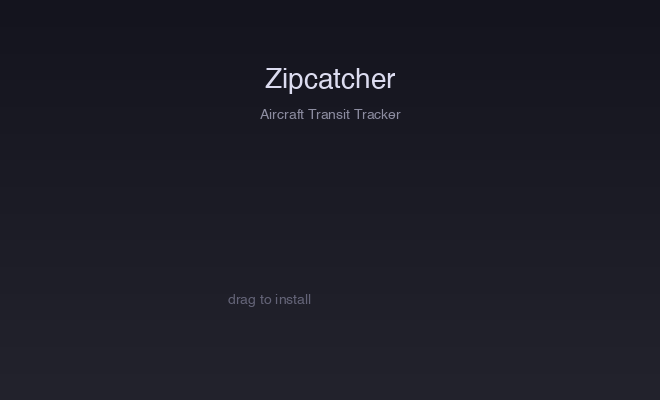
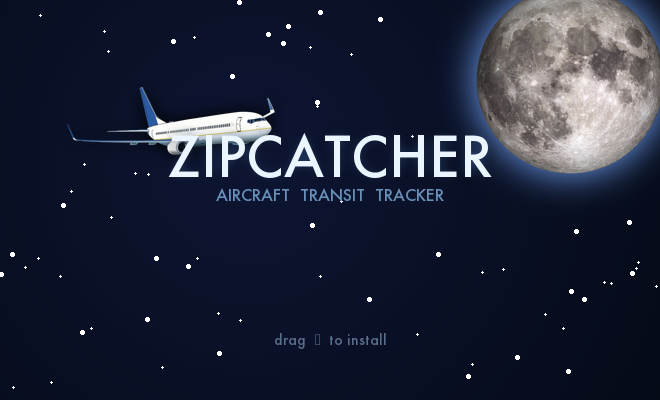
Raise 737 on splash and rebrand DMG installer background
Move the 737 up 50px on the splash so it clears the top edge cleanly,
and regenerate electron/assets/dmg-background.png as a Zipcatcher-
branded scene (deep space, photo moon top-right, 737 upper-left,
wordmark + tagline) so the .dmg the user opens to install matches
the splash screen. The generator script is kept alongside the image
so the background can be rebuilt if the assets change.

diff --git a/electron/splash.html b/electron/splash.html
@@ -58,7 +58,7 @@
   }
   #aircraft {
     position: absolute;
-    top: 40px;
+    top: -10px;
     left: 60px;
     width: 260px;
     height: auto;

diff --git a/electron/assets/build_dmg_background.py b/electron/assets/build_dmg_background.py
@@ -1,0 +1,143 @@
+#!/usr/bin/env python3
+"""Generate electron/assets/dmg-background.png from the splash assets.
+
+Run with the project venv:  .venv/bin/python electron/assets/build_dmg_background.py
+
+The DMG layout places the app icon at (130, 220) and the /Applications
+alias at (410, 220), so the lower-center strip of this background must
+stay visually clear.
+"""
+from __future__ import annotations
+
+from pathlib import Path
+
+from PIL import Image, ImageDraw, ImageFilter, ImageFont
+
+W, H = 660, 400
+HERE = Path(__file__).resolve().parent
+OUT = HERE / "dmg-background.png"
+MOON_SRC = HERE / "moon.png"
+AIRCRAFT_SRC = HERE / "aircraft-737.png"
+
+
+def deep_space_background(w: int, h: int) -> Image.Image:
+    # Vertical radial-ish gradient from deep navy at top-left to near-black.
+    base = Image.new("RGB", (w, h), (3, 8, 16))
+    top = Image.new("RGB", (w, h), (13, 21, 51))
+    mask = Image.new("L", (w, h), 0)
+    md = ImageDraw.Draw(mask)
+    cx, cy = int(w * 0.38), int(h * 0.40)
+    max_r = int((w ** 2 + h ** 2) ** 0.5)
+    for r in range(max_r, 0, -8):
+        alpha = max(0, 255 - int(255 * r / max_r * 1.3))
+        md.ellipse((cx - r, cy - r, cx + r, cy + r), fill=alpha)
+    return Image.composite(top, base, mask)
+
+
+def add_stars(img: Image.Image, count: int = 180) -> None:
+    import random
+    rng = random.Random(1337)
+    draw = ImageDraw.Draw(img, "RGBA")
+    for _ in range(count):
+        x = rng.randint(0, W - 1)
+        y = rng.randint(0, H - 1)
+        # Avoid the moon area and the drop zone strip.
+        if x > 430 and y < 220:
+            continue
+        if 80 <= y <= 330 and 90 <= x <= 560:
+            if rng.random() < 0.5:
+                continue
+        r = rng.choice([0, 0, 0, 1, 1, 2])
+        a = rng.randint(90, 220)
+        draw.ellipse((x - r, y - r, x + r, y + r), fill=(255, 255, 255, a))
+
+
+def paste_with_glow(canvas: Image.Image, src: Image.Image, box, glow_color, glow_radius: int) -> None:
+    x, y, w, h = box
+    src = src.resize((w, h), Image.LANCZOS).convert("RGBA")
+    # Build a glow layer from the alpha channel.
+    alpha = src.split()[-1]
+    glow = Image.new("RGBA", (w + glow_radius * 4, h + glow_radius * 4), (0, 0, 0, 0))
+    glow_mask = Image.new("L", glow.size, 0)
+    glow_mask.paste(alpha, (glow_radius * 2, glow_radius * 2))
+    glow_mask = glow_mask.filter(ImageFilter.GaussianBlur(glow_radius))
+    glow_rgba = Image.new("RGBA", glow.size, glow_color)
+    glow_rgba.putalpha(glow_mask)
+    canvas.alpha_composite(glow_rgba, (x - glow_radius * 2, y - glow_radius * 2))
+    canvas.alpha_composite(src, (x, y))
+
+
+def load_font(size: int) -> ImageFont.FreeTypeFont:
+    candidates = [
+        "/System/Library/Fonts/Supplemental/Futura.ttc",
+        "/System/Library/Fonts/HelveticaNeue.ttc",
+        "/System/Library/Fonts/Helvetica.ttc",
+        "/Library/Fonts/Arial.ttf",
+    ]
+    for path in candidates:
+        try:
+            return ImageFont.truetype(path, size)
+        except OSError:
+            continue
+    return ImageFont.load_default()
+
+
+def main() -> None:
+    canvas = deep_space_background(W, H).convert("RGBA")
+    add_stars(canvas)
+
+    moon = Image.open(MOON_SRC).convert("RGBA")
+    aircraft = Image.open(AIRCRAFT_SRC).convert("RGBA")
+
+    # Moon — top-right, slightly off-canvas top for the limb-glow look.
+    paste_with_glow(
+        canvas,
+        moon,
+        box=(W - 220 + 20, -30, 220, 220),
+        glow_color=(120, 170, 255, 120),
+        glow_radius=18,
+    )
+
+    # 737 — upper-left, raised so it doesn't crowd the wordmark.
+    paste_with_glow(
+        canvas,
+        aircraft,
+        box=(40, -10, 260, 260),
+        glow_color=(0, 0, 0, 0),  # shadow, not glow
+        glow_radius=8,
+    )
+
+    draw = ImageDraw.Draw(canvas)
+
+    # Wordmark — centered horizontally above the drop zone.
+    title_font = load_font(54)
+    sub_font = load_font(16)
+
+    title = "ZIPCATCHER"
+    tw = draw.textlength(title, font=title_font)
+    tx = (W - tw) / 2
+    ty = 120
+    # Soft glow behind the title.
+    glow = Image.new("RGBA", canvas.size, (0, 0, 0, 0))
+    glow_draw = ImageDraw.Draw(glow)
+    glow_draw.text((tx, ty), title, font=title_font, fill=(100, 170, 255, 140))
+    glow = glow.filter(ImageFilter.GaussianBlur(6))
+    canvas.alpha_composite(glow)
+    draw.text((tx, ty), title, font=title_font, fill=(235, 245, 255, 255))
+
+    sub = "AIRCRAFT  TRANSIT  TRACKER"
+    sw = draw.textlength(sub, font=sub_font)
+    draw.text(((W - sw) / 2, ty + 64), sub, font=sub_font, fill=(104, 144, 184, 255))
+
+    # Hint text beneath the drop zone ("Drag to Applications").
+    hint_font = load_font(14)
+    hint = "drag  →  to install"
+    hw = draw.textlength(hint, font=hint_font)
+    draw.text(((W - hw) / 2, 330), hint, font=hint_font, fill=(90, 110, 140, 255))
+
+    canvas.convert("RGB").save(OUT, "PNG", optimize=True)
+    print(f"wrote {OUT} ({W}x{H})")
+
+
+if __name__ == "__main__":
+    main()
